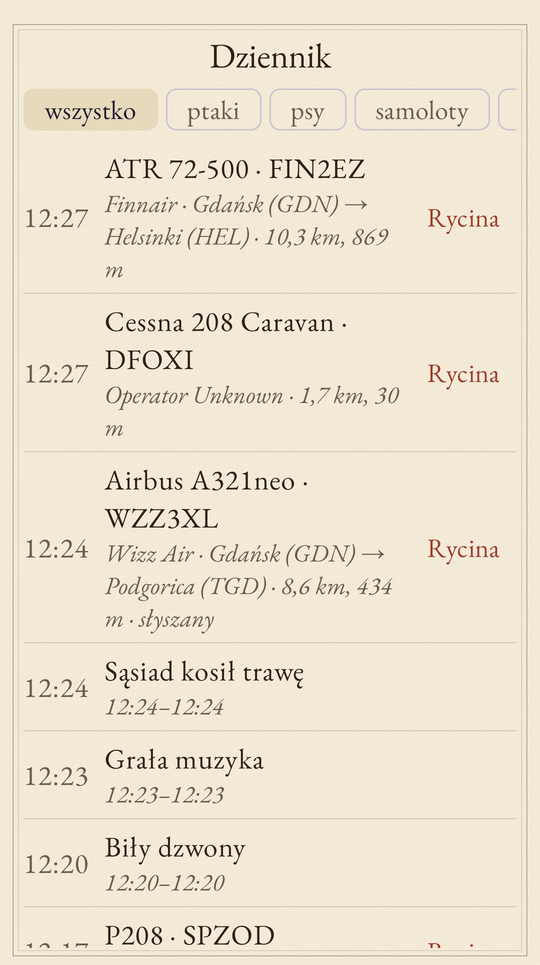
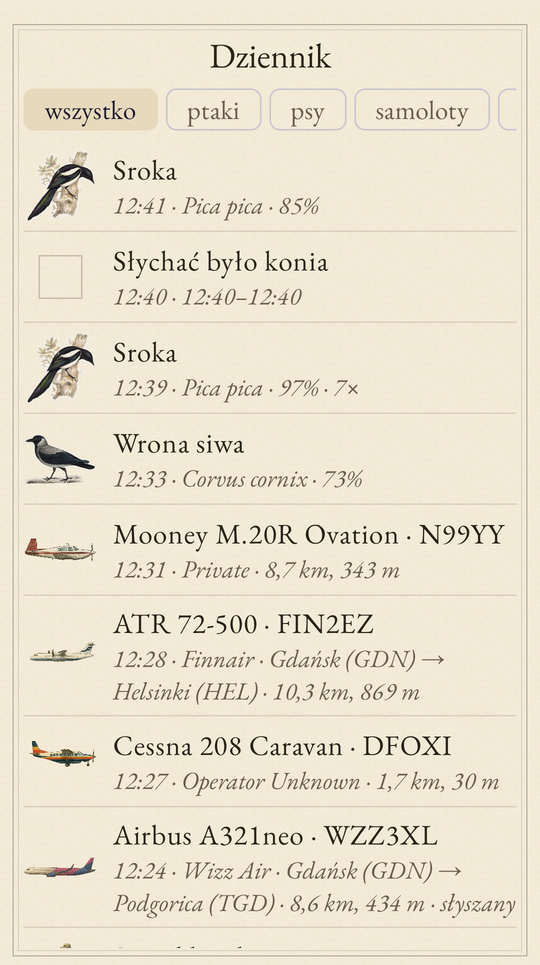
0.4.0: miniatury rycin w Dzienniku

diff --git a/android/app/src/main/java/pl/wojczal/ryciny/ui/Journal.kt b/android/app/src/main/java/pl/wojczal/ryciny/ui/Journal.kt
@@ -1,7 +1,9 @@
 package pl.wojczal.ryciny.ui
 
 import android.media.MediaPlayer
+import androidx.compose.foundation.clickable
 import androidx.compose.foundation.horizontalScroll
+import androidx.compose.ui.unit.sp
 import androidx.compose.foundation.layout.Arrangement
 import androidx.compose.foundation.rememberScrollState
 import androidx.compose.foundation.layout.Column
@@ -36,14 +38,17 @@ import androidx.compose.ui.Alignment
 import androidx.compose.ui.Modifier
 import androidx.compose.ui.unit.dp
 import pl.wojczal.ryciny.Graph
+import pl.wojczal.ryciny.art.ArtRequest
+import pl.wojczal.ryciny.art.Kind
 import pl.wojczal.ryciny.data.Bark
+import pl.wojczal.ryciny.data.Sound
 import pl.wojczal.ryciny.data.PlanePass
 import pl.wojczal.ryciny.planes.planeArt
 import java.io.File
 
 private sealed interface Entry { val at: Long }
 private data class BirdEntry(val name: String, val sci: String, val conf: Float, val count: Int, override val at: Long) : Entry
-private data class SoundEntry(val title: String, val from: Long, override val at: Long) : Entry
+private data class SoundEntry(val sound: Sound, val from: Long, override val at: Long) : Entry
 private data class BarkEntry(val bark: Bark, val dog: String?, override val at: Long) : Entry
 private data class PlaneEntry(val pass: PlanePass, val title: String, val detail: String, val heard: Boolean, override val at: Long) : Entry
 
@@ -59,7 +64,7 @@ fun JournalScreen(g: Graph) {
         if (filter in setOf("all", "birds")) journal.birds.forEach { add(BirdEntry(it.name, it.sci, it.conf, it.count, it.lastAt)) }
         if (filter in setOf("all", "dogs")) journal.barks.forEach { add(BarkEntry(it, it.dogId?.let { id -> dogs[id]?.let { d -> "${d.name} (${d.breed})" } }, it.lastAt)) }
         if (filter in setOf("all", "sounds")) journal.sounds.forEach { e ->
-            g.catalog.sound(e.key)?.let { add(SoundEntry(it.past, e.at, e.lastAt)) }
+            g.catalog.sound(e.key)?.let { add(SoundEntry(it, e.at, e.lastAt)) }
         }
         if (filter in setOf("all", "planes")) journal.planes.forEach {
             add(PlaneEntry(it, "${it.title} · ${it.callsign}", listOf(it.airline, it.route, "${km(it.minDistKm.toDouble())}" + (it.minAltM?.let { a -> ", $a m" } ?: "")).filter { s -> s.isNotBlank() }.joinToString(" · "), it.heard, it.lastAt))
@@ -77,11 +82,20 @@ fun JournalScreen(g: Graph) {
             if (filter == "dogs") item { KnownDogs(g) }
             items(entries) { e ->
                 when (e) {
-                    is SoundEntry -> Line(hhmm(e.at), e.title, "${hhmm(e.from)}–${hhmm(e.at)}")
-                    is BirdEntry -> Line(hhmm(e.at), e.name.replaceFirstChar { it.uppercase() }, "${e.sci} · ${(e.conf * 100).toInt()}%" + if (e.count > 1) " · ${e.count}×" else "")
-                    is PlaneEntry -> Line(hhmm(e.at), e.title, e.detail + if (e.heard) " · słyszany" else "") {
-                        TextButton(onClick = { viewing = e.pass }) { Text("Rycina") }
-                    }
+                    is SoundEntry -> Line(
+                        hhmm(e.at), e.sound.past, "${hhmm(e.from)}–${hhmm(e.at)}",
+                        ArtRequest(Kind.SCENE, e.sound.key, e.sound.now, prompt = e.sound.prompt), fetch = false,
+                    )
+                    is BirdEntry -> Line(
+                        hhmm(e.at), e.name.replaceFirstChar { it.uppercase() },
+                        "${e.sci} · ${(e.conf * 100).toInt()}%" + if (e.count > 1) " · ${e.count}×" else "",
+                        ArtRequest(Kind.BIRD, e.sci, e.sci), fetch = true,
+                    )
+                    // A plane's engraving is paid for, so it is made on a tap, not by scrolling past.
+                    is PlaneEntry -> Line(
+                        hhmm(e.at), e.title, e.detail + if (e.heard) " · słyszany" else "",
+                        passArt(e.pass), fetch = false, onClick = { viewing = e.pass },
+                    )
                     is BarkEntry -> BarkLine(g, e.bark, e.dog) { tagging = e.bark }
                 }
                 HorizontalDivider(color = InkSoft.copy(alpha = 0.2f))
@@ -93,25 +107,44 @@ fun JournalScreen(g: Graph) {
 }
 
 @Composable
-private fun Line(time: String, title: String, detail: String, trailing: @Composable () -> Unit = {}) {
-    Row(Modifier.fillMaxWidth().padding(vertical = 6.dp), verticalAlignment = Alignment.CenterVertically) {
-        Text(time, color = InkSoft, modifier = Modifier.padding(end = 12.dp))
+private fun Line(
+    time: String,
+    title: String,
+    detail: String,
+    art: ArtRequest,
+    fetch: Boolean,
+    onClick: (() -> Unit)? = null,
+    trailing: @Composable () -> Unit = {},
+) {
+    Row(
+        Modifier.fillMaxWidth().let { if (onClick != null) it.clickable(onClick = onClick) else it }.padding(vertical = 6.dp),
+        verticalAlignment = Alignment.CenterVertically,
+    ) {
+        Thumb(art, fetch, Modifier.padding(end = 12.dp))
         Column(Modifier.weight(1f)) {
             Text(title)
-            Text(detail, style = Italic.copy(fontSize = androidx.compose.ui.unit.TextUnit(14f, androidx.compose.ui.unit.TextUnitType.Sp)), color = InkSoft)
+            Text("$time · $detail", style = Italic.copy(fontSize = 14.sp), color = InkSoft)
         }
         trailing()
     }
 }
 
+/** The engraving a logged plane shares with every plane of its type in its airline's colours. */
+private fun passArt(pass: PlanePass) =
+    // Passes logged before the type code was kept fall back to their title as the picture's key.
+    planeArt(pass.typeCode.ifBlank { pass.title }, pass.airlineIcao.ifBlank { pass.airline }, pass.title, pass.airline)
+
 @Composable
 private fun BarkLine(g: Graph, bark: Bark, dog: String?, onTag: () -> Unit) {
     val pitch = if (bark.pitchHz > 0) " · ok. ${bark.pitchHz.toInt()} Hz" else ""
     val match = if (dog != null && bark.similarity < 1f) " · podobieństwo ${(bark.similarity * 100).toInt()}%" else ""
+    val known = bark.dogId?.let { id -> g.store.value.dogs.firstOrNull { it.id == id } }
+    val breed = known?.let { it.breed to it.breedEn } ?: g.catalog.mongrel(bark.size).let { it.pl to it.en }
     Line(
         hhmm(bark.at),
         dog ?: "Szczekanie — nieznany pies" + if (bark.size != "?") ", raczej ${bark.size}" else "",
         "${bark.count}× · pewność ${(bark.score * 100).toInt()}%$pitch$match",
+        ArtRequest(Kind.DOG, breed.first, breed.second), fetch = false,
     ) {
         bark.clip?.let { name ->
             IconButton(onClick = { play(File(g.store.clips, name)) }) { Icon(Icons.Default.PlayArrow, "Odtwórz") }
@@ -189,8 +222,7 @@ private fun TagDialog(g: Graph, bark: Bark, onDone: () -> Unit) {
 /** A past plane's engraving: generated on first look if this type and livery has none yet. */
 @Composable
 private fun PlaneDialog(pass: PlanePass, onDone: () -> Unit) {
-    // Passes logged before the type code was kept fall back to their title as the picture's key.
-    val art = planeArt(pass.typeCode.ifBlank { pass.title }, pass.airlineIcao.ifBlank { pass.airline }, pass.title, pass.airline)
+    val art = passArt(pass)
     AlertDialog(
         onDismissRequest = onDone,
         containerColor = Paper,

diff --git a/android/app/src/main/java/pl/wojczal/ryciny/ui/Theme.kt b/android/app/src/main/java/pl/wojczal/ryciny/ui/Theme.kt
@@ -3,7 +3,10 @@ package pl.wojczal.ryciny.ui
 import android.graphics.Bitmap
 import android.graphics.BitmapFactory
 import androidx.compose.foundation.background
+import androidx.compose.foundation.border
 import androidx.compose.foundation.layout.Box
+import androidx.compose.foundation.layout.fillMaxSize
+import androidx.compose.foundation.layout.size
 import androidx.compose.foundation.layout.fillMaxWidth
 import androidx.compose.foundation.layout.height
 import androidx.compose.foundation.layout.padding
@@ -142,6 +145,41 @@ fun Engraving(request: ArtRequest, height: Dp, modifier: Modifier = Modifier, pl
     } else {
         Box(modifier.height(height), contentAlignment = Alignment.Center) {
             Caption(placeholder, size = 14, color = InkSoft)
+        }
+    }
+}
+
+private val thumbs = android.util.LruCache<String, ImageBitmap>(120)
+
+private fun decodeThumb(path: String, px: Int): ImageBitmap? {
+    val bounds = BitmapFactory.Options().apply { inJustDecodeBounds = true }
+    BitmapFactory.decodeFile(path, bounds)
+    var sample = 1
+    while (maxOf(bounds.outWidth, bounds.outHeight) / (sample * 2) >= px * 2) sample *= 2
+    return BitmapFactory.decodeFile(path, BitmapFactory.Options().apply { inSampleSize = sample })?.asImageBitmap()
+}
+
+/**
+ * A small engraving for a journal row. Shows only what is already on the phone, so scrolling the
+ * journal never orders a paid picture; [fetch] lets free ones (fugleramme's bird plates) download.
+ */
+@Composable
+fun Thumb(request: ArtRequest, fetch: Boolean, modifier: Modifier = Modifier, size: Dp = 56.dp) {
+    val art = LocalContext.current.graph.art
+    val version by art.version.collectAsState()
+    val px = with(androidx.compose.ui.platform.LocalDensity.current) { size.roundToPx() }
+    val image by produceState<ImageBitmap?>(null, request, version) {
+        val file = art.cached(request) ?: if (fetch) art.load(request) else null
+        value = file?.let { f ->
+            thumbs.get(f.path) ?: withContext(Dispatchers.IO) { decodeThumb(f.path, px) }?.also { thumbs.put(f.path, it) }
+        }
+    }
+    Box(modifier.size(size), contentAlignment = Alignment.Center) {
+        val bmp = image
+        if (bmp != null) {
+            Image(bmp, contentDescription = request.subject, contentScale = ContentScale.Fit, modifier = Modifier.fillMaxSize())
+        } else {
+            Box(Modifier.size(size * 0.6f).border(0.8.dp, InkSoft.copy(alpha = 0.3f)))
         }
     }
 }

diff --git a/README.md b/README.md
@@ -37,7 +37,7 @@ i dźwięków wygenerował `gpt-image-1`, a ptaka narysował John Gould w XIX wi
 | Dziennik | Rycina samolotu z Dziennika | Psy w Dzienniku | Ustawienia |
 | :---: | :---: | :---: | :---: |
 | ![Dziennik](docs/screenshots/dziennik.png) | ![Embraer E175 LOT](docs/screenshots/samolot-z-dziennika.png) | ![Psy](docs/screenshots/dziennik-psy.png) | ![Ustawienia](docs/screenshots/ustawienia.png) |
-| Samoloty z trasami (Finnair GDN → HEL, Wizz Air GDN → TGD), koszenie, dzwony | „Rycina” przy samolocie: Embraer E175 LOT Gdańsk → Warszawa | Filtr „psy”: znane psy, szczekania do odsłuchania i oznaczenia („Kto to?”) | Klucz do rycin, licznik rycin w pamięci, miejsce |
+| Każdy wpis z miniaturą ryciny: sroka, wrona siwa, samoloty z trasami (Finnair GDN → HEL, Wizz Air GDN → TGD) | „Rycina” przy samolocie: Embraer E175 LOT Gdańsk → Warszawa | Filtr „psy”: znane psy, szczekania do odsłuchania i oznaczenia („Kto to?”) | Klucz do rycin, licznik rycin w pamięci, miejsce |
 
 ### Galeria rycin
 

diff --git a/CHANGELOG.md b/CHANGELOG.md
@@ -3,6 +3,10 @@
 Numeracja: `MAJOR.MINOR.PATCH` (semver). Wersja jest w `android/gradle.properties` (`ryciny.version`),
 tag w gicie to `vX.Y.Z`, a każdy tag ma release z plikiem APK.
 
+## 0.4.0 - 2026-10-04
+
+- Dziennik: miniatura ryciny przy każdym wpisie (ptak, samolot, pies, dźwięk). Miniatury pokazują tylko ryciny zapisane w telefonie, więc przewijanie niczego nie generuje; płatną rycinę samolotu zamawia się dotknięciem wpisu. Darmowe tablice ptaków dociągają się same.
+
 ## 0.3.1 - 2026-10-04
 
 - Dolne menu ma trzy zakładki: lista znanych psów przeszła do Dziennika (filtr „psy”), nad szczekania.
